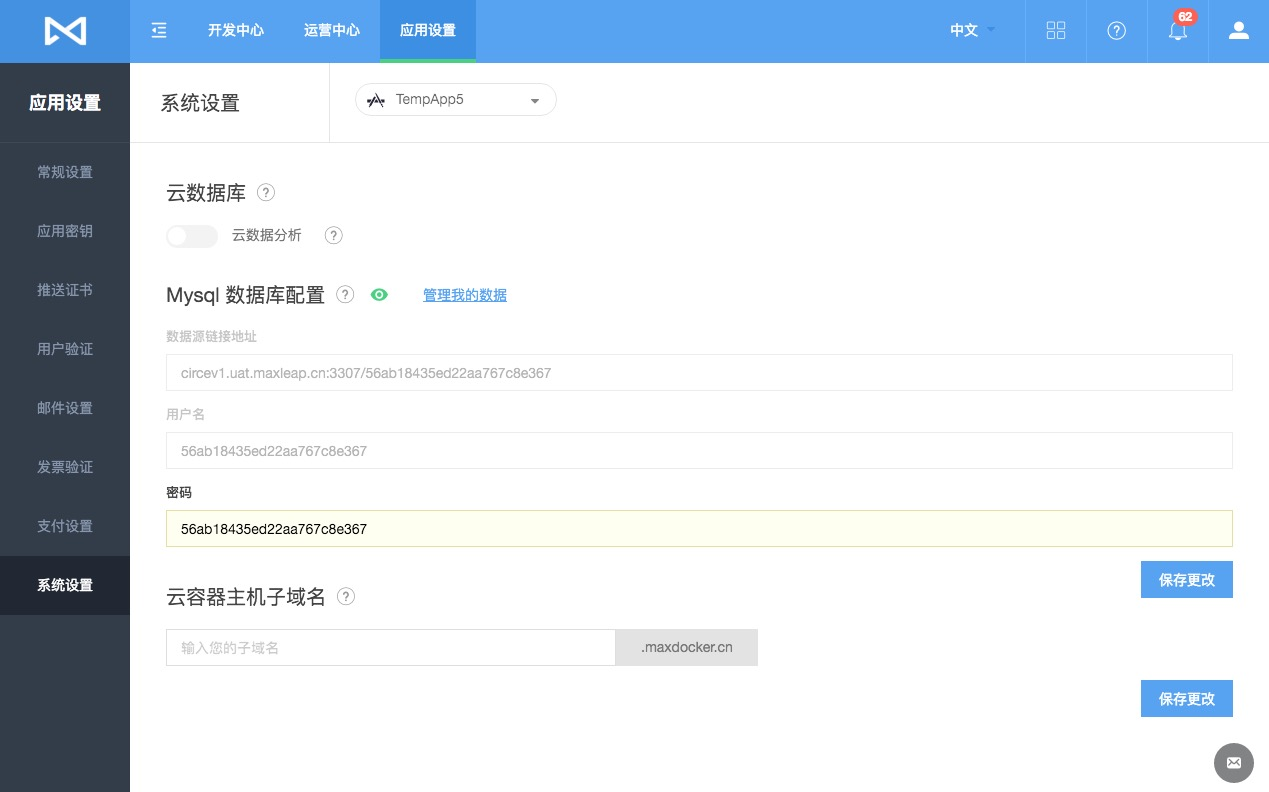
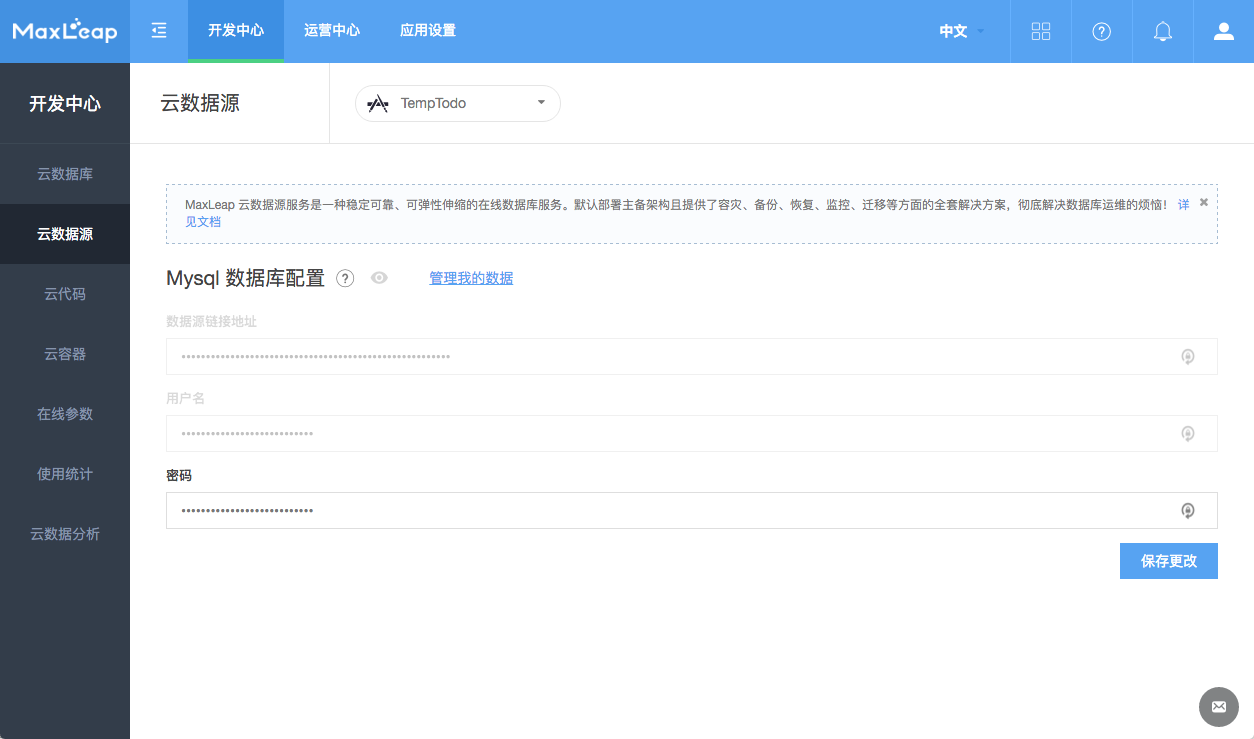
fix doc

diff --git a/zh/UserManual/Guide/CloudContainer.md b/zh/UserManual/Guide/CloudContainer.md
@@ -83,20 +83,28 @@ Jetty 等其他容器内测中，敬亲期待。。。
 
 step1:
 
-选择某一应用，进入应用设置，界面；然后通过左侧菜单进入系统设置：
+选择某一应用，进入【开发中心 -> 云数据源】，界面；然后通过左侧菜单进入系统设置：
 
-![imgCCVersionList](../../../images/java_container1.png)
+![imgCCVersionList](../../../images/CloudContainerJava1.png)
 
 step2:
 
-点击创建mysql数据库；之后，点击【管理我的数据】 左侧的“眼睛”状图标，显示数据库连接和账号，记录下来；而后填写云容器主机子域名；点击保存更改：
+点击创建mysql数据库；之后，点击【管理我的数据】 左侧的“眼睛”状图标，显示数据库连接和账号，记录下来；
 
 
-![imgCCVersionList](../../../images/java_container2.png)
+![imgCCVersionList](../../../images/CloudContainerJava2.png)
 
-该数据库连接账号，需要在你的java web项目中使用，该子域名，就是你所建立项目应用的子域名。
-
+该数据库连接账号，需要在你的java web项目中使用。
 step3:
+
+进入【开发中心 -> 云容器 -> 设置】，修改云容器主机子域名，点击保存更改：
+
+![imgCCVersionList](../../../images/CloudContainerJava3.png)
+
+该子域名，就是你所建立项目应用的子域名。
+
+
+step4:
 
 点击【管理我的数据】，进入phpMyAdmin来管理用户数据库，创建并初始化数据表。如果表数据比较大，用户可以联系我们，由我们帮用户直接导入到mysql数据库中。本例中，使用[Demo-CloudContainer-Tomcat](https://github.com/MaxLeap/Demo-CloudContainer-Tomcat)中的数据库：
 
@@ -171,20 +179,28 @@ tomcat web应用部署可能需要花费一点时间,如果访问域名页面一
 
 step1:
 
-选择某一应用，进入应用设置，界面；然后通过左侧菜单进入系统设置：
+选择某一应用，进入【开发中心 -> 云数据源】：
 
-![imgCCVersionList](../../../images/php_container1.png)
+![imgCCVersionList](../../../images/CloudContainerJava1.png)
 
 step2:
 
-点击创建mysql数据库；之后，点击【管理我的数据】 左侧的“眼睛”状图标，显示数据库连接和账号，记录下来；而后填写云容器主机子域名；点击保存更改：
+点击创建mysql数据库；之后，点击【管理我的数据】 左侧的“眼睛”状图标，显示数据库连接和账号，记录下来
 
 
-![imgCCVersionList](../../../images/php_container2.png)
+![imgCCVersionList](../../../images/CloudContainerJava2.png)
 
-该数据库连接账号，需要在你的php项目中使用，该子域名，就是你所建立项目应用的子域名。
+该数据库连接账号，需要在你的php项目中使用。
 
 step3:
+
+进入【开发中心 -> 云容器 -> 设置】，修改您的二级子域名，保存。
+
+![imgCCVersionList](../../../images/CloudContainerJava3.png)
+
+该子域名，就是你所建立项目应用的子域名。
+
+step4:
 
 点击【管理我的数据】，进入phpMyAdmin来管理用户数据库，创建并初始化数据表。如果表数据比较大，用户可以联系我们，由我们帮用户直接导入到mysql数据库中。本例中，使用Yii Framework所提供的CRUD样例数据库：
 
@@ -271,7 +287,7 @@ step10:
 
 step1：
 
-注册并登录 MaxLeap 平台，创建一个应用，进入【应用设置 -> 系统设置】，配置云容器二级域名并保存
+注册并登录 MaxLeap 平台，创建一个应用，进入【开发中心-> 云容器 -> 设置】，配置云容器二级域名并保存
 
 ![imgCCVersionList](../../../images/web_container1.png)
 

diff --git a/zh/UserManual/Guide/CloudDataOfflineAnalyze.md b/zh/UserManual/Guide/CloudDataOfflineAnalyze.md
@@ -22,11 +22,11 @@ MaxLeap 云数据在线分析旨在为用户提供一种处理自有应用数据
 ![Offline Arch](../../../images/imgOfflineArch.png "Offline Arch")
 
 ## 启用设置
-- 第一次使用，请进入应用设置页面，打开“云数据分析”开关，系统会在后台导入您的云数据，泡杯咖啡，耐心等待
+- 第一次使用，打开【开发中心 -> 云数据分析】页面，右上角打开“云数据分析”开关，系统会在后台导入您的云数据，泡杯咖啡，耐心等待
 
 ![Offline Arch](../../../images/imgOfflineStep1.png "Offline Arch")
 
-- 打开“开发中心”-“云数据分析”页面，如果您的数据已经导入完成，页面会在左侧列出当前的所有表结构，如果未完全导入，底部会出现目前导入表的信息
+- 如果您的数据已经导入完成，页面会在左侧列出当前的所有表结构，如果未完全导入，底部会出现目前导入表的信息
 
 ![Offline Arch](../../../images/imgOfflineStep2.png "Offline Arch")
 
